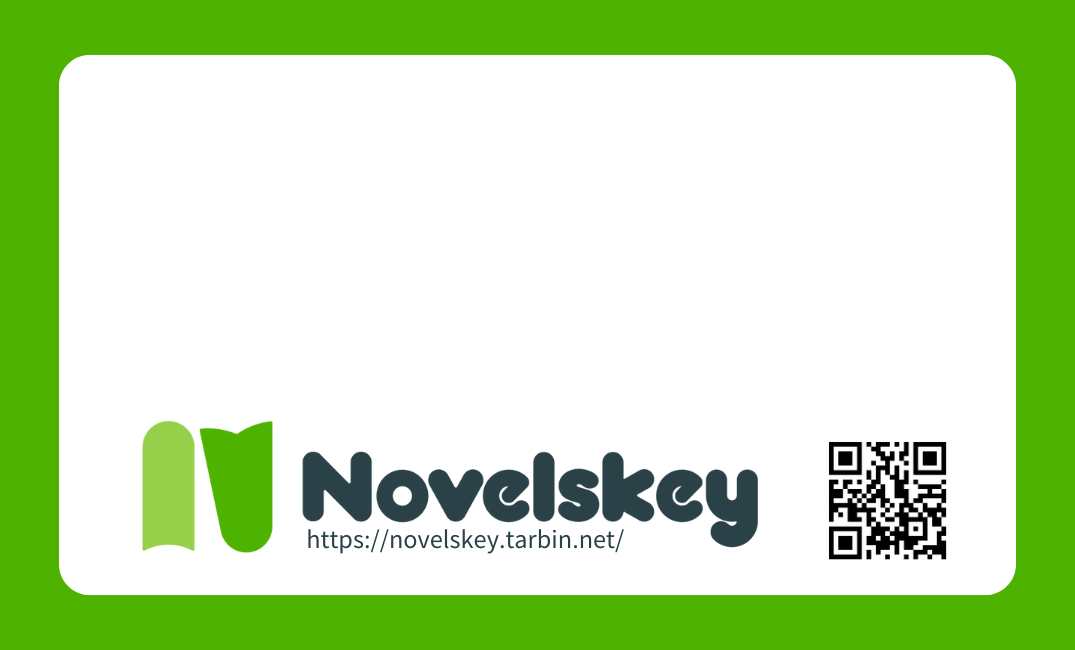
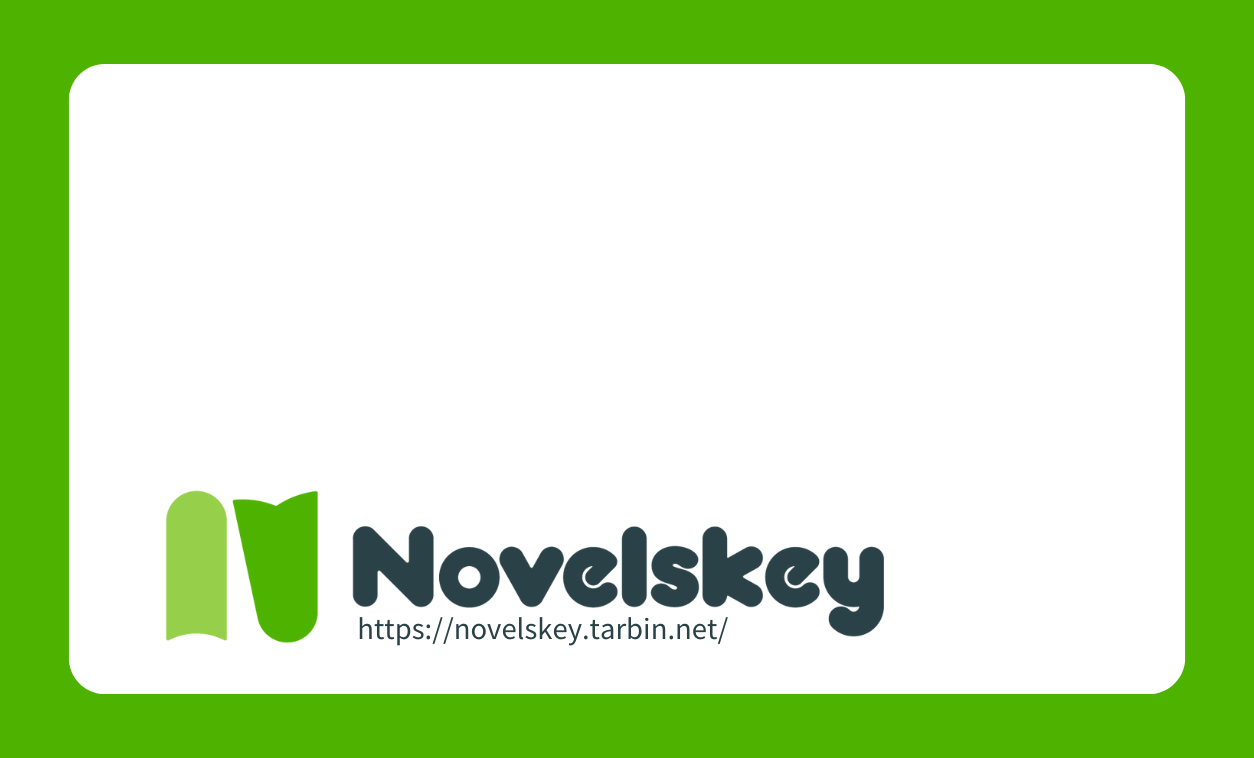
おとすきーモード/カスタムモードの追加

diff --git a/sketch.js b/sketch.js
@@ -2,12 +2,26 @@ let bgImg;
 let pfImg;
 let maskImg;
 let params;
+let qrInputTmp;
+let qrImg;
+let tagDiv;
 
 function preload() {
   const url = new URL(window.location.href);
   params = url.searchParams;
 
-  bgImg = loadImage("base_ns.png");
+  const theme = params.get('theme');
+  if (theme === 'otoskey') {
+    bgImg = loadImage("base_os.png");
+  } else if (theme === 'novelskey') {
+    bgImg = loadImage("base_ns.png");
+  } else if (theme === 'custom') {
+    const bgImgUrl = params.get('bgImgUrl');
+    bgImg = loadImage(bgImgUrl);
+  } else {
+    bgImg = loadImage("base_ns.png");
+  }
+
   maskImg = loadImage("mask.png");
 
   const imgUrl = params.get('imgUrl');
@@ -19,50 +33,100 @@ function preload() {
 }
 
 function setup() {
-  canvas = createCanvas(1075, 650);
-  canvas.position(0,300);
+  canvas = createCanvas(1254, 758);
+  canvas.position(0, 500);
 
+  const prLabel = createDiv('プロフィール画像：');
+  prLabel.position(0, 50);
   input = createFileInput(handleFile);
-  input.position(0,50);
+  input.position(200, 50);
 
+  const nameLabel = createDiv('ユーザー名：');
+  nameLabel.position(0, 90);
   const name = params.get('name');
   nameInput = createInput(name ?? "もじすきー");
-  nameInput.position(0, 100);
+  nameInput.position(200, 90);
 
+  const idLabel = createDiv('ID (id@domain)：');
+  idLabel.position(0, 130);
   const id = params.get('id');
   idInput = createInput(id ?? "mojiskey@novelskey.tarbin.net");
-  idInput.position(0, 150);
+  idInput.position(200, 130);
 
+  const dateLabel = createDiv('アカウント作成日：');
+  dateLabel.position(0, 170);
   const date = params.get('id');
   dateInput = createInput(date ?? "2023/3/2");
-  dateInput.position(0, 200);
+  dateInput.position(200, 170);
+
+  const qrLabel = createDiv('2次元バーコードのURL：');
+  qrLabel.position(0, 210);
+  const qrUrl = params.get('qrUrl');
+  qrInput = createInput(qrUrl ?? "https://novelskey.tarbin.net/");
+  qrInput.position(200, 210);
+
+  const bgLabel = createDiv('背景画像(1254x758px)：');
+  bgLabel.position(0, 250);
+
+  button = createButton('ノベルスキー');
+  button.mousePressed(bgNovelskey);
+  button.position(0, 290);
+
+  button = createButton('おとすきー');
+  button.mousePressed(bgOtoskey);
+  button.position(100, 290);
+
+  bgInput = createFileInput(handleBgFile);
+  bgInput.position(0, 330);
 
   button = createButton('保存');
   button.mousePressed(saveImage);
-  button.position(0, 250);
+  button.position(0, 400);
 }
 
+const baseW1 = 150;
+const baseW2 = 520;
+const baseH1 = 120;
+const baseH2 = 140;
+
 function draw() {
+  smooth();
   background(255);
 	image(bgImg, 0, 0, bgImg.width, bgImg.height)
   if (pfImg) {
     pfImg.mask(maskImg);
-    image(pfImg, 130, 100, 300, 300)
+    image(pfImg, baseW1, baseH1, 350, 350)
   }
 
   fill('black');
-  textSize(15);
-  text("NAME / ID", 460, 150)
-  textSize(50);
-  text(nameInput.value(), 455, 220)
-  textSize(25);
+  textSize(20);
+  text("NAME / ID", baseW2 + 60, baseH2 + 50)
+  textSize(55);
+  text(nameInput.value(), baseW2 + 55, baseH2 + 120)
+  textSize(30);
   fill('gray');
-  text(idInput.value(), 460, 270)
+  text(idInput.value(), baseW2 + 60, baseH2 + 170)
   fill('black');
-  textSize(15);
-  text("JOINED DATE", 460, 350)
-  textSize(25);
-  text(dateInput.value(), 460, 390)
+  textSize(20);
+  text("JOINED DATE", baseW2 + 60, baseH2 + 250)
+  textSize(30);
+  text(dateInput.value(), baseW2 + 60, baseH2 + 290)
+
+  if (qrInputTmp !== qrInput.value()) {
+    qrInputTmp = qrInput.value();
+    let qr = qrcode(0, 'L');
+    qr.addData(qrInput.value());
+    qr.make();
+    qrImg = loadImage(qr.createDataURL())
+  }
+  noSmooth();
+  image(qrImg, 930, 480, 180, 180)
+}
+
+function handleBgFile(file) {
+  if (file.type === 'image') {
+    bgImg = loadImage(file.data);
+  }
 }
 
 function handleFile(file) {
@@ -76,4 +140,12 @@ function handleFile(file) {
 
 function saveImage(){
   save("profile.png");
+}
+
+function bgNovelskey(){
+  bgImg = loadImage("base_ns.png");
+}
+
+function bgOtoskey(){
+  bgImg = loadImage("base_os.png");
 }

diff --git a/index.html b/index.html
@@ -4,6 +4,7 @@
     <title>Profile Card Genarator</title>
     <meta charset="utf-8"/>
     <script src="https://cdnjs.cloudflare.com/ajax/libs/p5.js/1.10.0/p5.min.js"></script>
+    <script src="https://unpkg.com/qrcode-generator@1.4.4/qrcode.js"></script>
     <script src="sketch.js"></script>
   </head>
   <body>
